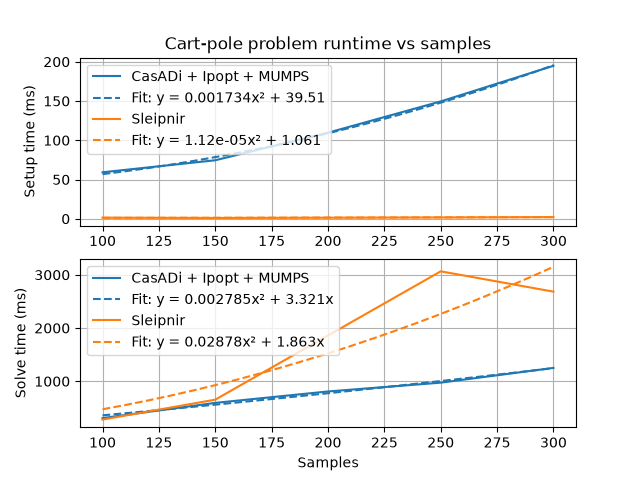
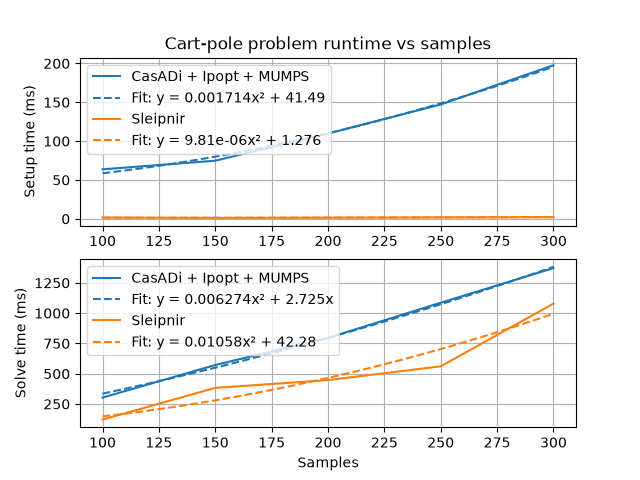
Rerun scalability benchmark (#1365)

diff --git a/benchmarks/README.md b/benchmarks/README.md
@@ -30,7 +30,7 @@ Generated by [benchmarks/generate-scalability-results.sh](https://github.com/Sle
 
 The benchmarks use the following thirdparty software:
 
-* CasADi 3.8.0 (autodiff and NLP solver frontend)
+* CasADi 3.8.1 (autodiff and NLP solver frontend)
 * Ipopt 3.14.20 (NLP solver backend)
 * MUMPS 5.8.1 (linear solver)
 
